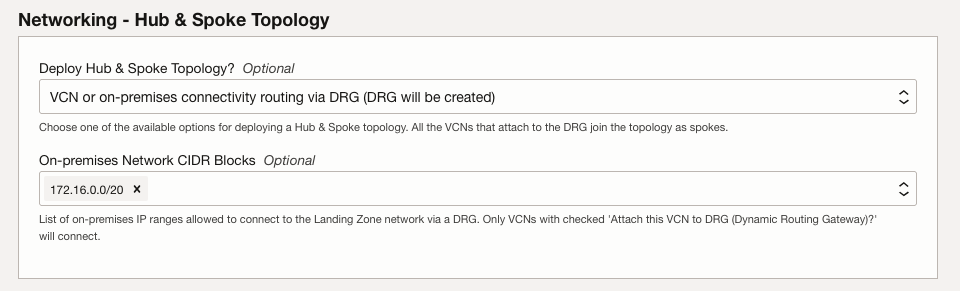
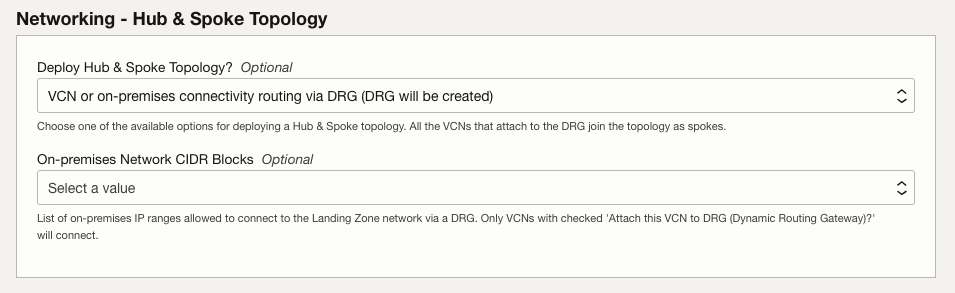
Fix typos & minor style problems; Update screenshots

diff --git a/oci-core-landing-zone/deploy-network/deploy-network.md b/oci-core-landing-zone/deploy-network/deploy-network.md
@@ -2,7 +2,9 @@
 
 ## Introduction
 
-We have created the skeleton of the Landing Zone we need to deploy our workload. We have all the IAM requirements met including compartments, groups, and policies. Now, our workload will need the ability to communicate with clients and components. One or more Virtual Cloud Networks will give us the ability to do so.
+We have created the skeleton of the Landing Zone we need to deploy our workload*. We have all the IAM requirements met including compartments, groups, and policies. Now, our workload will need the ability to communicate with clients and components. One or more Virtual Cloud Networks will give us the ability to do so.
+
+*\*Workload not included*
 
 ### Objectives
 
@@ -14,40 +16,42 @@ We have created the skeleton of the Landing Zone we need to deploy our workload.
 
 We will need to return to the configurations that we used to define the Landing Zone. By modifying the configuration variables, we can declare a network that will be added to the Landing Zone.
 
-1. In the _Stacks_ menu for the _Resource Manager Stack_ we deployed in the previous lab, select __Variables__ under _Resources_.
+1. In the *Stacks* menu for the *Resource Manager Stack* we deployed in the previous lab, select __Variables__ under *Resources*.
 1. Click the __Edit Variables__ button. Please note that it may take a moment for the variables form to populate.
 
     ![Edit variables on the stack menu](./images/edit-variables-btn.png "Select the Edit Variables button")
 
-1. Select the __Define Networking?__ checkbox in the _General_ section of the stack variables.
+1. Select the __Define Networking?__ checkbox in the *General* section of the stack variables.
 
     ![Define Networking? is checked](./images/define-network.png "Make sure to check the Define Networking? button")
 
-1. Four Networking sections will appear. Proceed to _Networking - Three Tier VCNs_ and check the __Add Three-Tier VCN (label: TT-VCN-1)?__ button. Note that the display name for the VCN is configurable by using the field _VCN Name (label: TT-VCN-1)_. The VCN name will default to _TT-VCN-1_ otherwise. The network CIDR Block(s) can be changed in the _List of CIDR Blocks_ field. Further customizations are available in _Customize VCN Subnets?_, but are outside the scope of this lab.
+1. Four Networking sections will appear. Proceed to *Networking - Three Tier VCNs* and check the __Add Three-Tier VCN (label: TT-VCN-1)?__ button. Note that the display name for the VCN is configurable by using the field *VCN Name (label: TT-VCN-1)*. The VCN name will default to *TT-VCN-1* otherwise. The network CIDR Block(s) can be changed in the *List of CIDR Blocks* field. Further customizations are available in *Customize VCN Subnets?*, but are outside the scope of this lab.
 
     ![Three tier network options](./images/network-config.png "Configure the network here")
 
-1. Select the __Next__ button to move to the _Review_ page.
-1. Ensure that _Run apply_ is __not checked__ and __Save changes__.
+1. Select the __Next__ button to move to the *Review* page.
+1. Ensure that *Run apply* is __not checked__ and __Save changes__.
 
 ## Task 2: Plan and Apply Updated Configuration
 
 With our new configurations in place, we will go through the plan and apply process to deploy a network.
 
-1. You should be on the _Stack details_ page after saving the configuration. Click the __Plan__ button and then __Plan__.
+1. You should be on the *Stack details* page after saving the configuration. Click the __Plan__ button and then __Plan__.
 1. Check the plan logs to ensure that resources are being added, ensuring that resources are being added and not changed or destroyed. This will mean the deployment will happen in-place, without any resources being terminated and re-created.
+
+    *Note: The exact number of resources to add may vary from the screenshot below.*
 
     ![Plan output showing resources to be added, changed, destroyed](./images/network-plan-output.png "X to add, 0 to change, 0 to destroy")
 
-1. Navigate back to the _Stack details_ page and click the __Apply__ button.
-1. Select the _Plan_ we just created from the __Apply job plan resolution__ drop down and then __Apply__ again.
-1. Once the _Apply_ is complete, inspect the logs to make sure that the deployed resources match the desired state defined by the configuration.
+1. Navigate back to the *Stack details* page and click the __Apply__ button.
+1. Select the *Plan* we just created from the __Apply job plan resolution__ drop down and then __Apply__ again.
+1. Once the *Apply* is complete, inspect the logs to make sure that the deployed resources match the desired state defined by the configuration.
 
     ![Apply output logs](./images/network-apply-output.png "Make sure the apply executed properly")
 
 ## Task 3: Inspect Changes
 
-1. Navigate from the main menu in the top-left corner of the console to _Networking_ > _Virtual cloud networks_ to inspect the new 3-tier VCN. Make sure you are in the network compartment to see network resources.
+1. Navigate from the main menu in the top-left corner of the console to *Networking* > *Virtual cloud networks* to inspect the new 3-tier VCN. Make sure you are in the network compartment to see network resources.
 
     ![Virtual Cloud Network](./images/3-tier-vcn.png "3 tier VCN")
 
@@ -55,7 +59,7 @@ With our new configurations in place, we will go through the plan and apply proc
 
     ![VCN Subnets and Details](./images/subnets.png "Subnets and other details about the VCN")
 
-1. (_Optional_) From the main menu, go to _Networking_ > _Network Visualizer_ to see a visualization of the network. If you do not see a network visualization, ensure that the network compartment is currently selected. You should see three different gateways for resources on the network to communicate. An Internet Gateway (IGW) for the web tier, a NAT gateway for private internet access for the App and DB subnets, and finally a Service Gateway (SGW) for private communication with OCI internal services.
+1. (*Optional*) From the main menu, go to *Networking* > *Network Visualizer* to see a visualization of the network. If you do not see a network visualization, ensure that the network compartment is currently selected. You should see three different gateways for resources on the network to communicate. An Internet Gateway (IGW) for the web tier, a NAT gateway for private internet access for the App and DB subnets, and finally a Service Gateway (SGW) for private communication with OCI internal services.
 
     ![Network Visualizer Image](./images/visualizer-output.png "Output from the Network Visualizer")
 

diff --git a/oci-core-landing-zone/compliance/compliance.md b/oci-core-landing-zone/compliance/compliance.md
@@ -2,9 +2,7 @@
 
 ## Introduction
 
-In this lab the Landing Zone should be successfully deployed. As time goes on and development or maintenance has been done to the Landing Zone environment, how do you ensure that compliance to CIS controls is still maintained? One way is to run the [CIS Compliance Script](https://github.com/oracle-quickstart/oci-cis-landingzone-quickstart/blob/main/compliance-script.md) included in the Landing Zone.
-
-_Note that the compliance script is included with the Landing Zone, but has no dependency on it. The script can be used in any OCI tenancy in this manner._
+In this lab the Landing Zone should be successfully deployed. As time goes on and development or maintenance has been done to the Landing Zone environment, how do you ensure that compliance to CIS controls is still maintained? One way is to run the [CIS Compliance Script](https://github.com/oracle-quickstart/oci-cis-landingzone-quickstart/blob/main/compliance-script.md).
 
 Estimated Lab Time: 10 minutes
 
@@ -30,7 +28,7 @@ The compliance script can be run anywhere with the correct permissions and optio
     ![Cloud Shell Setup](https://oracle-livelabs.github.io/common/images/console/cloud-shell-setup.png "Cloud Shell setup stage")
     ![Cloud Shell Open](https://oracle-livelabs.github.io/common/images/console/cloud-shell-open.png "Cloud Shell open and ready")
 
-2. Copy and run the following command in the Cloud Shell to download the script:
+1. Copy and run the following command in the Cloud Shell to download the script:
 
     ```text
     <copy>
@@ -38,15 +36,7 @@ The compliance script can be run anywhere with the correct permissions and optio
     </copy>
     ```
 
-3. Enter the following command to download a supported version of libraries the script depends on.
-
-    ```text
-    <copy>
-    pip install --upgrade "urllib3<=2" --user
-    </copy>
-    ```
-
-4. Run the script by entering the following command, then wait a moment while the script collects data.
+1. Run the script by entering the following command, then wait a moment while the script collects data.
 
     ```text
     <copy>
@@ -56,7 +46,7 @@ The compliance script can be run anywhere with the correct permissions and optio
 
 ## Task 2: Download Findings
 
-1. Once complete, there will be a directory named *compliance_report* in your home directory. Compress this directory by running the following command in the Cloud Shell.
+1. Once complete, there will be a directory named _compliance\_report_ in your home directory. Compress this directory by running the following command in the Cloud Shell.
 
     ```text
     <copy>
@@ -64,15 +54,15 @@ The compliance script can be run anywhere with the correct permissions and optio
     </copy>
     ```
 
-2. Download the file by opening the Cloud Shell menu in the top-right corner and selecting *Download*. ![Cloud Shell Menu](images/compliance-download-1.png "Cloud Shell Menu with Download & Upload Options")
+1. Download the file by opening the Cloud Shell menu in the top-right corner and selecting _Download_. ![Cloud Shell Menu](images/compliance-download-1.png "Cloud Shell Menu with Download & Upload Options")
 
-3. Enter `compliance_report.zip` into the input box and click *Download*. ![Cloud Shell Download File](images/compliance-download-2.png "Download compliance.zip in Cloud Shell")
+1. Enter `compliance_report.zip` into the input box and click _Download_. ![Cloud Shell Download File](images/compliance-download-2.png "Download compliance.zip in Cloud Shell")
 
-4. Unzip and peruse the report at your leisure.
+1. Unzip and peruse the report at your leisure.
 
 ## Task 3: Inspect Report Contents
 
-The report directory will contain a variable number of files depending on the state of your OCI tenancy. The summary file contains the list of checks and if they passed or failed. Open the *cis\_html\_summary\_report.html* file to view the contents in your web browser. Take a few moments to browse the contents.
+The report directory will contain a variable number of files depending on the state of your OCI tenancy. The summary file contains the list of checks and if they passed or failed. Open the _cis\_html\_summary\_report.html_ file to view the contents in your web browser. Take a few moments to browse the contents.
 
 ![Report Directory](images/report-contents.png "Report directory content")
 

diff --git a/oci-core-landing-zone/hub-spoke-network/hub-spoke-network.md b/oci-core-landing-zone/hub-spoke-network/hub-spoke-network.md
@@ -16,12 +16,10 @@ We will use the Landing Zone to connect our three tier network to a network for 
 
 ## Task 1: Re-configure Network Variables for Hub & Spoke Network
 
-1. Step into the _Edit Stack_ page in the _Stack_ in the same way we began the previous lab.
+1. Step into the _Edit variables_ page in the _Stack Details_ > _Resources_ > _Variables_ in the same way we began the previous lab.
 1. Under _Networking - Hub & Spoke Topology_ we need to select an option that creates a DRG. Multiple Landing Zones could be connected by selecting an option that uses an existing DRG, but we don't have one of those yet.
 
     Select __VCN or on-premises connectivity routing via DRG (DRG will be created)__.
-
-    _(Optional) Input `172.16.0.0/20` to represent the CIDR for an On-premises network_.
 
     ![DRG will be created](./images/hub-spoke-config.png "DRG will be created")
 
